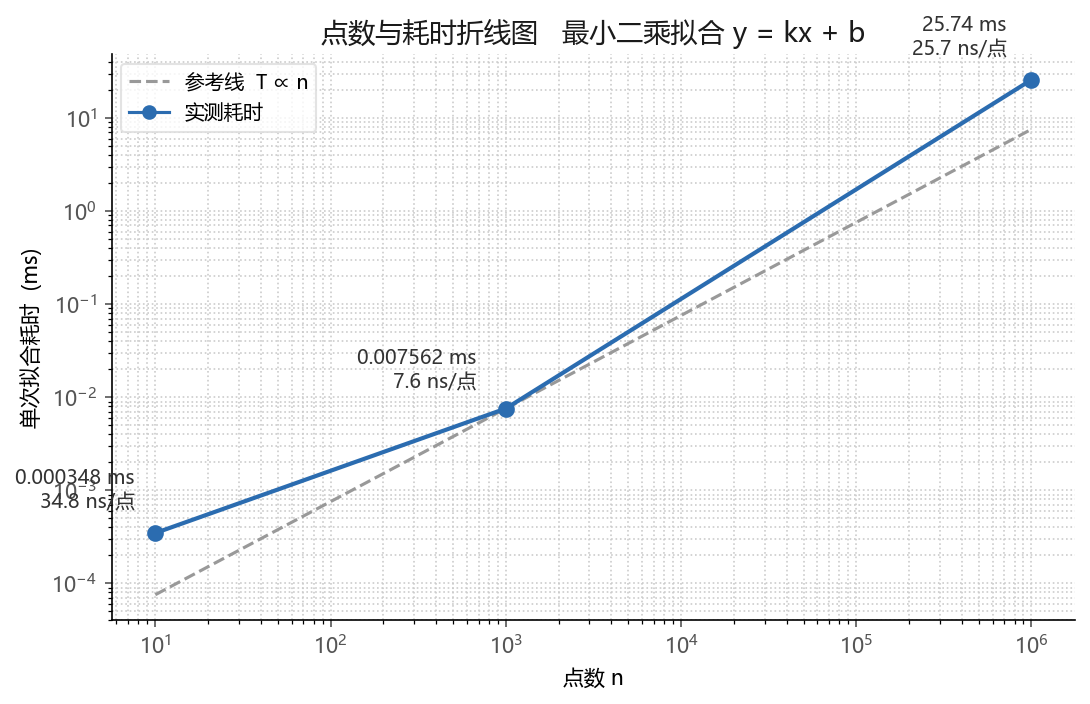
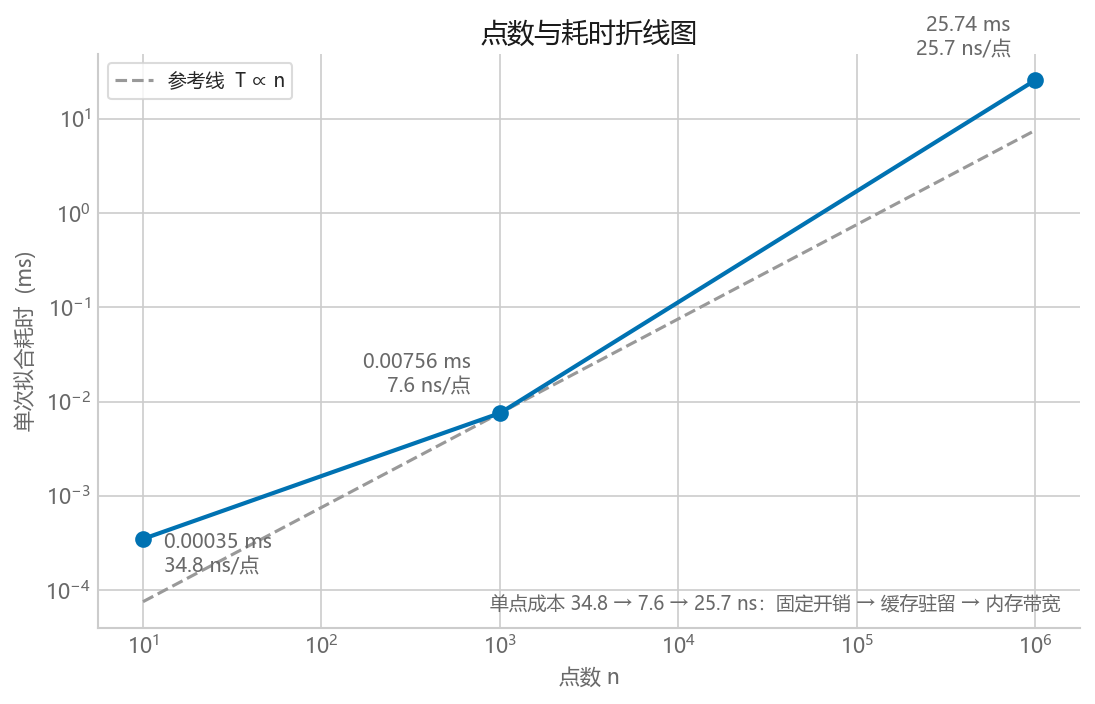
Add coursework demo strip to front page and refresh HPC lab charts with annotated values

Changed region(s): [[0.0, 0.0312, 0.9982, 0.9375], [0.4991, 0.9375, 0.5615, 1.0], [0.7798, 0.0312, 0.811, 0.0625]]

diff --git a/README.zh-CN.md b/README.zh-CN.md
@@ -102,6 +102,12 @@
 | [时空大数据高性能处理](coursework/Spatiotemporal-HPC-Labs/) | 四次上机实验，定积分、矩阵运算与最小二乘拟合、MPI 分布式内存编程、OpenMP 图像仿射重采样，含动画演示 | C++17、MPI（OpenMPI）、OpenMP、Linux |
 | [具身智能路线图](embodied-ai-learning-roadmap.md) | 十二周从大模型到机器人学习的项目制路线 | PyTorch，机器人学习，ROS 2 |
 
+<p align="center">
+  <a href="coursework/Spatiotemporal-HPC-Labs/README.zh-CN.md"><img src="coursework/Spatiotemporal-HPC-Labs/figures/lab4_warp_morph.gif" alt="OpenMP 仿射重采样演示" width="40%" /></a>
+  <a href="coursework/Spatiotemporal-HPC-Labs/README.zh-CN.md"><img src="coursework/Spatiotemporal-HPC-Labs/figures/lab3_mpi_partition.gif" alt="MPI 划分与归约演示" width="40%" /></a>
+</p>
+<p align="center"><sub>课程亮点：OpenMP 仿射重采样与 MPI 区间划分归约演示，来自 <a href="coursework/Spatiotemporal-HPC-Labs/">时空大数据高性能实验</a></sub></p>
+
 ---
 
 联系方式 2311311120@hbut.edu.cn。导航与本地检查见[作品集指南](docs/PORTFOLIO_GUIDE.zh-CN.md)与[项目来源说明](docs/INTEGRATED_PROJECTS.md)。各子项目自带许可证与第三方声明。

diff --git a/README.md b/README.md
@@ -102,6 +102,12 @@
 | [Spatiotemporal HPC Labs](coursework/Spatiotemporal-HPC-Labs/) | Four labs: integral computation, matrix algebra with least squares fitting, distributed memory MPI versions, and OpenMP image warping, with animated demos | C++17, OpenMPI, OpenMP, Linux |
 | [Embodied AI Roadmap](embodied-ai-learning-roadmap.md) | Twelve-week project-driven route from LLMs to robot learning | PyTorch, robot learning, ROS 2 |
 
+<p align="center">
+  <a href="coursework/Spatiotemporal-HPC-Labs/README.md"><img src="coursework/Spatiotemporal-HPC-Labs/figures/lab4_warp_morph.gif" alt="OpenMP affine warp demo" width="40%" /></a>
+  <a href="coursework/Spatiotemporal-HPC-Labs/README.md"><img src="coursework/Spatiotemporal-HPC-Labs/figures/lab3_mpi_partition.gif" alt="MPI split and reduce demo" width="40%" /></a>
+</p>
+<p align="center"><sub>Coursework highlight: OpenMP affine warp and MPI interval split-reduce demos, from <a href="coursework/Spatiotemporal-HPC-Labs/">Spatiotemporal HPC Labs</a></sub></p>
+
 ---
 
 Contact 2311311120@hbut.edu.cn. Navigation and local checks live in the [Portfolio Guide](docs/PORTFOLIO_GUIDE.md) and [Integrated Project Sources](docs/INTEGRATED_PROJECTS.md). Each subproject ships its own license and third-party notices.
